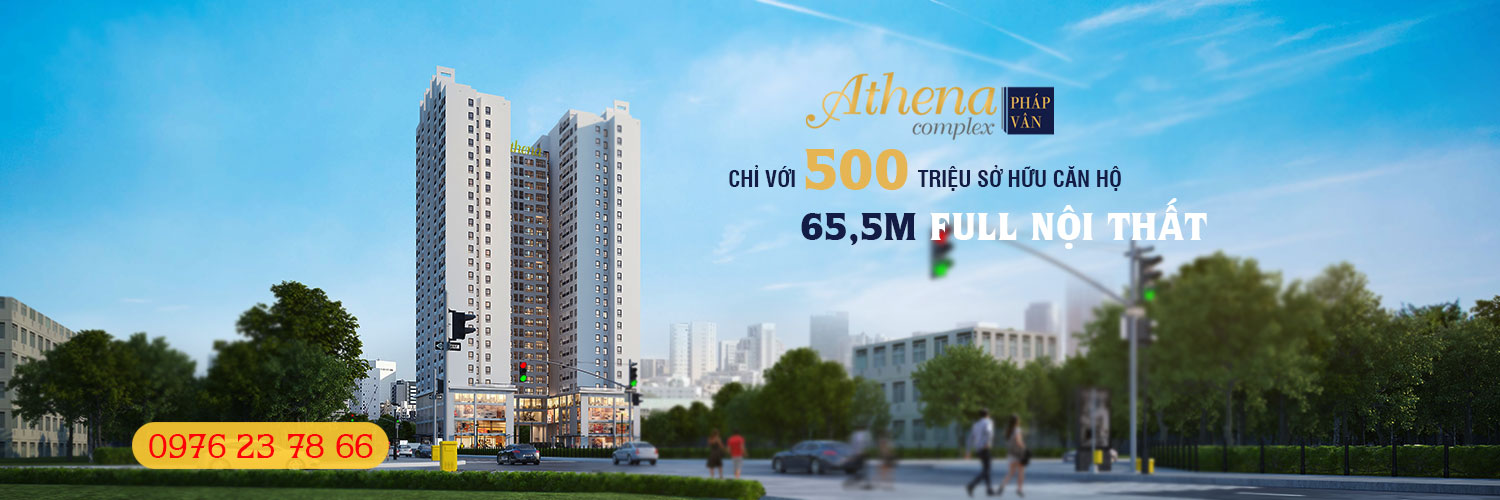
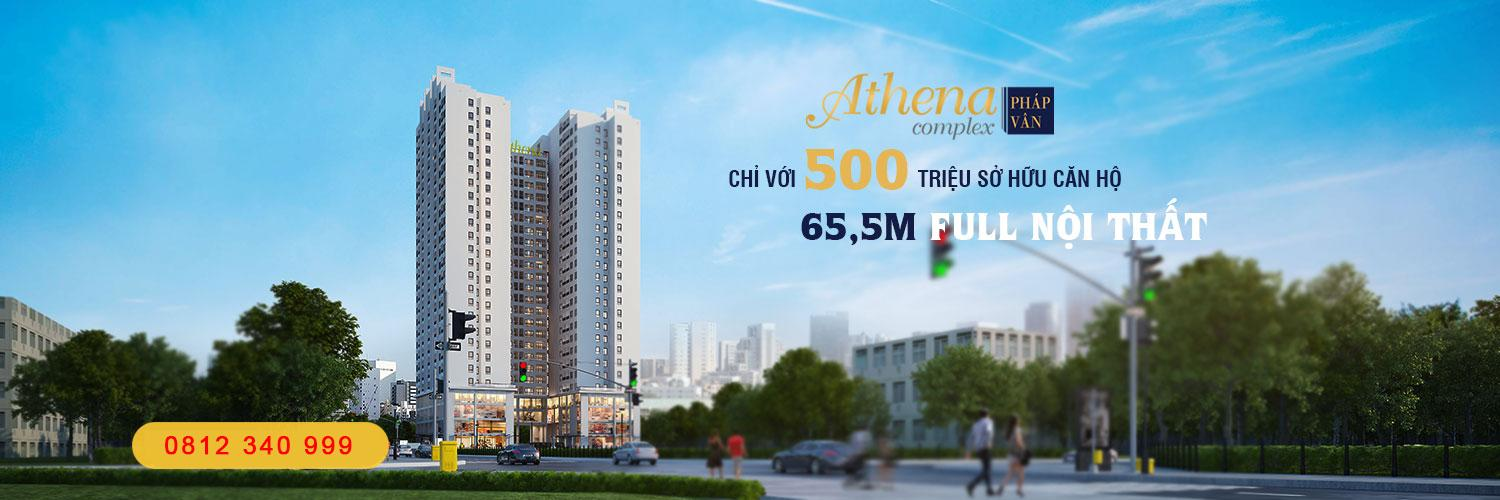
add 3

diff --git a/index.html b/index.html
@@ -58,8 +58,7 @@
                             <a class="nav-link" href="#">Liên hệ </a>
                         </li>
                         <li class="item ">
-                            <a class="link" href="#"><img src="images/phone.gif" alt="phone"><span id="phone">0976 23 78
-                                    66</span> </a>
+                            <a class="link" href="#"><img src="images/phone.gif" alt="phone"><span id="phone">0812 340 999</span> </a>
                         </li>
                     </ul>
                 </div>
@@ -68,7 +67,7 @@
 
     </section>
 
-    <section>
+    <section id="banner">
         <div id="carouselId" class="carousel slide" data-ride="carousel">
             <ol class="carousel-indicators">
                 <li data-target="#carouselId" data-slide-to="0" class="active"></li>
@@ -376,7 +375,7 @@
 
     <footer id="footer">
         <img src="images/logo-footer.png" alt="">
-        <p>Hotline: 0976 23 78 66</p>
+        <p>Hotline: 0812 340 999</p>
         <p>Địa chỉ: 161 Ngọc Hồi, KĐT Pháp Vân, Hoàng Mai, Hà Nội</p>
         <p>Copyright 2019 © Chung cư Athena Complex Pháp Vân</p>
     </footer>

diff --git a/scss/index.scss b/scss/index.scss
@@ -33,7 +33,8 @@
     }
   }
 }
-
+#banner{
+}
 #info {
   text-align: center;
   margin-top: 3%;
